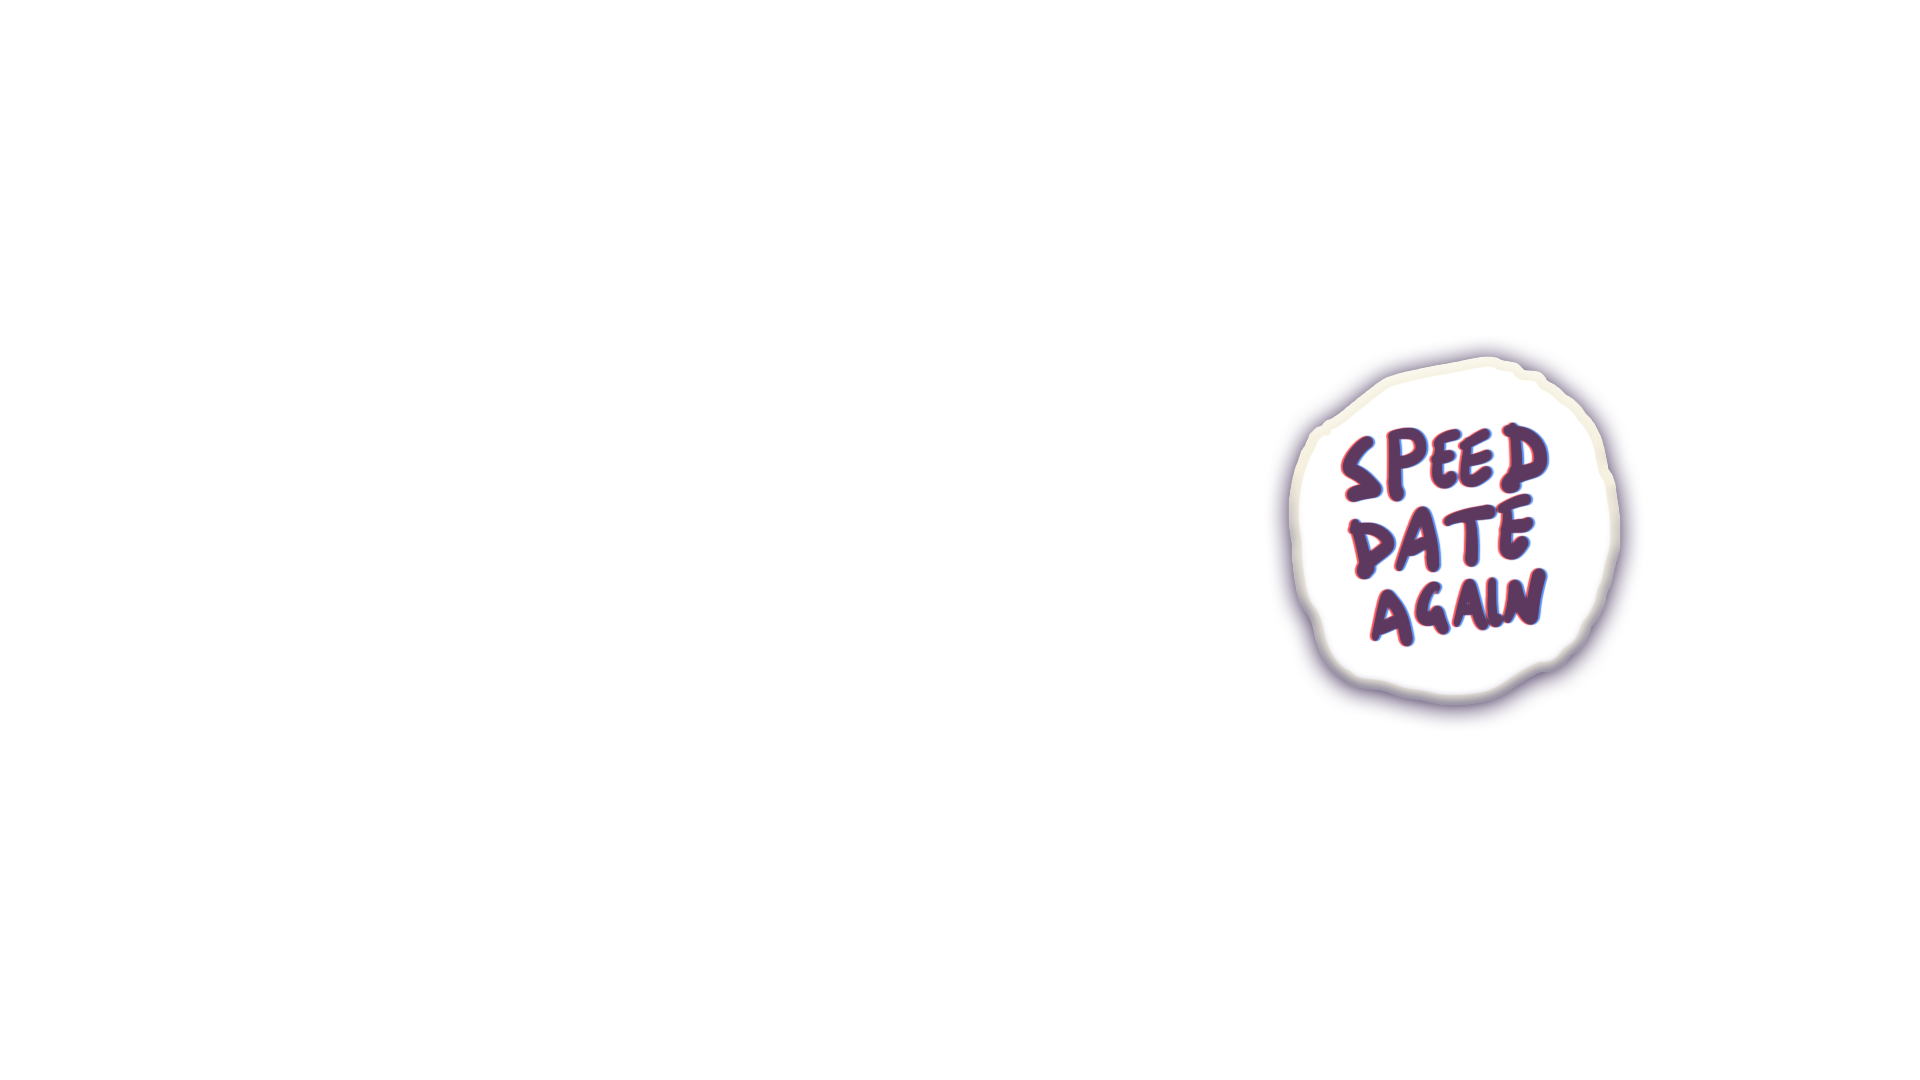
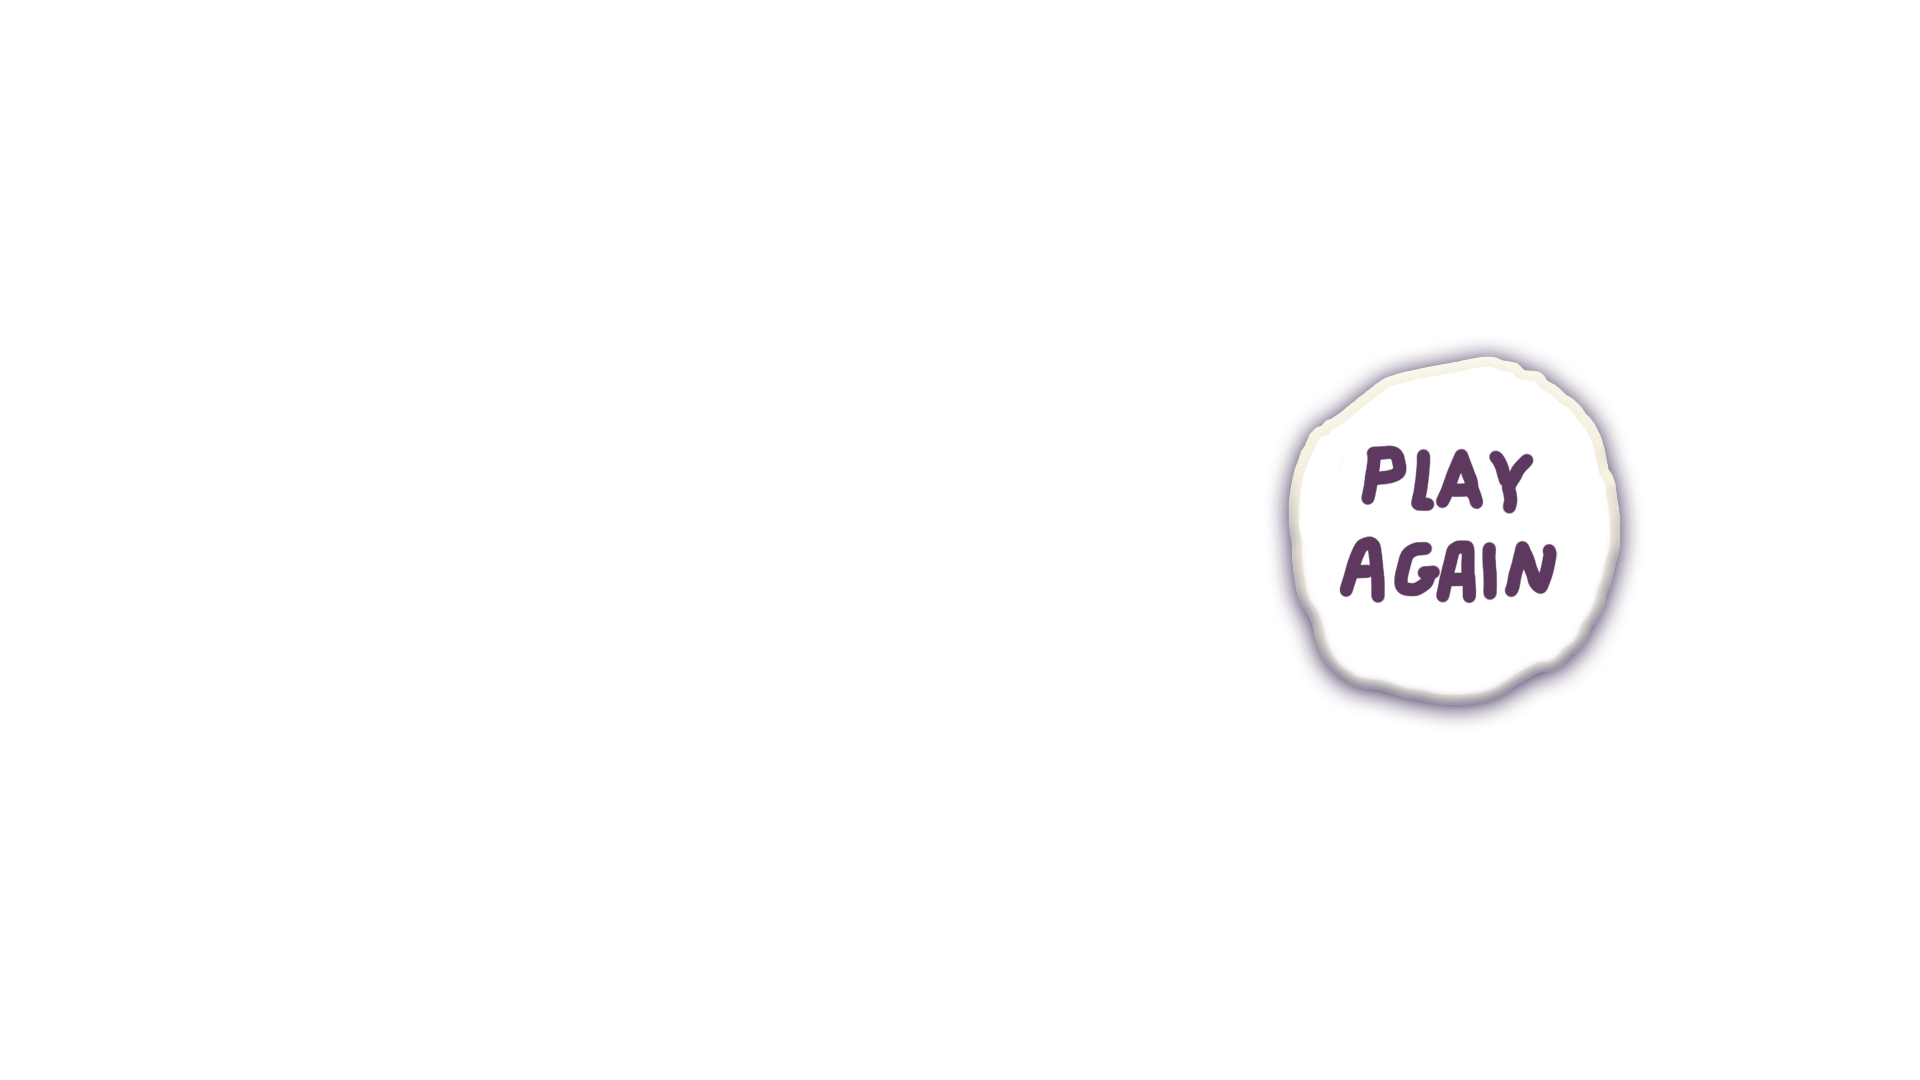
Call to action implemented but trailler music not working properly

Changed region(s): [[0.6875, 0.3972, 0.8125, 0.6111]]

diff --git a/Assets/WWE/Scripts/CallActionToAction.cs b/Assets/WWE/Scripts/CallActionToAction.cs
@@ -8,29 +8,41 @@ public class CallActionToAction : MonoBehaviour
 {
     private float scale =1;
 
+    public GameObject _mouseOverEffects;
 
+    [SerializeField] private bool _openLink = false;  
     private IEnumerator Start()
     {
+        _mouseOverEffects.gameObject.SetActive(false);
+
         yield return new WaitForSeconds(90);
-        
-        SceneManager.LoadScene(0);
     }
 
     private void OnMouseOver()
     {
         scale =1.2f;
-
+        _mouseOverEffects.gameObject.SetActive(true);
     }
 
     private void OnMouseExit()
     {
         scale =1;
+        _mouseOverEffects.gameObject.SetActive(false);
+
     }
 
     private void OnMouseDown()
     {
         scale = 0.7f;
-        OpenLink();
+
+        if (_openLink)
+        {
+            OpenLink();
+        }
+        else
+        {
+            SceneManager.LoadScene(0);
+        }
     }
     
     
@@ -71,9 +83,6 @@ public class CallActionToAction : MonoBehaviour
     public void Update()
     {
         transform.localScale = Vector3.one*scale;
-        if (Input.GetKeyDown(KeyCode.Escape))
-        {
-            SceneManager.LoadScene(0);
-        }
+     
     }
 }

diff --git a/Assets/WWE/Scripts/Gaze.cs b/Assets/WWE/Scripts/Gaze.cs
@@ -26,8 +26,8 @@ namespace WWE
         {
 
             Vector3 target = defaultPos;
-            if (Input.GetKeyDown(KeyCode.Space) && Application.isEditor)
-                lookDown = !lookDown;
+            // if (Input.GetKeyDown(KeyCode.Space) && Application.isEditor)
+            //     lookDown = !lookDown;
 
             if (lookDown)
             {

diff --git a/Assets/WWE/Scripts/TrailerCam.cs b/Assets/WWE/Scripts/TrailerCam.cs
@@ -32,6 +32,7 @@ public float duration =2;
 
     public void Switch()
     {
+	    Debug.Log("Switch");
         gameObject.SetActive(false);
         interior.SetActive(true);
 

diff --git a/Assets/Lazerbeam Machine/Scripts/EscapeToMenu.cs b/Assets/Lazerbeam Machine/Scripts/EscapeToMenu.cs
@@ -12,6 +12,7 @@ public class EscapeToMenu : MonoBase {
 	void Update () {
 		
 		
+		return;
 		inputTimer -= Time.deltaTime;
 		if( AnyInputDown )
 		{
